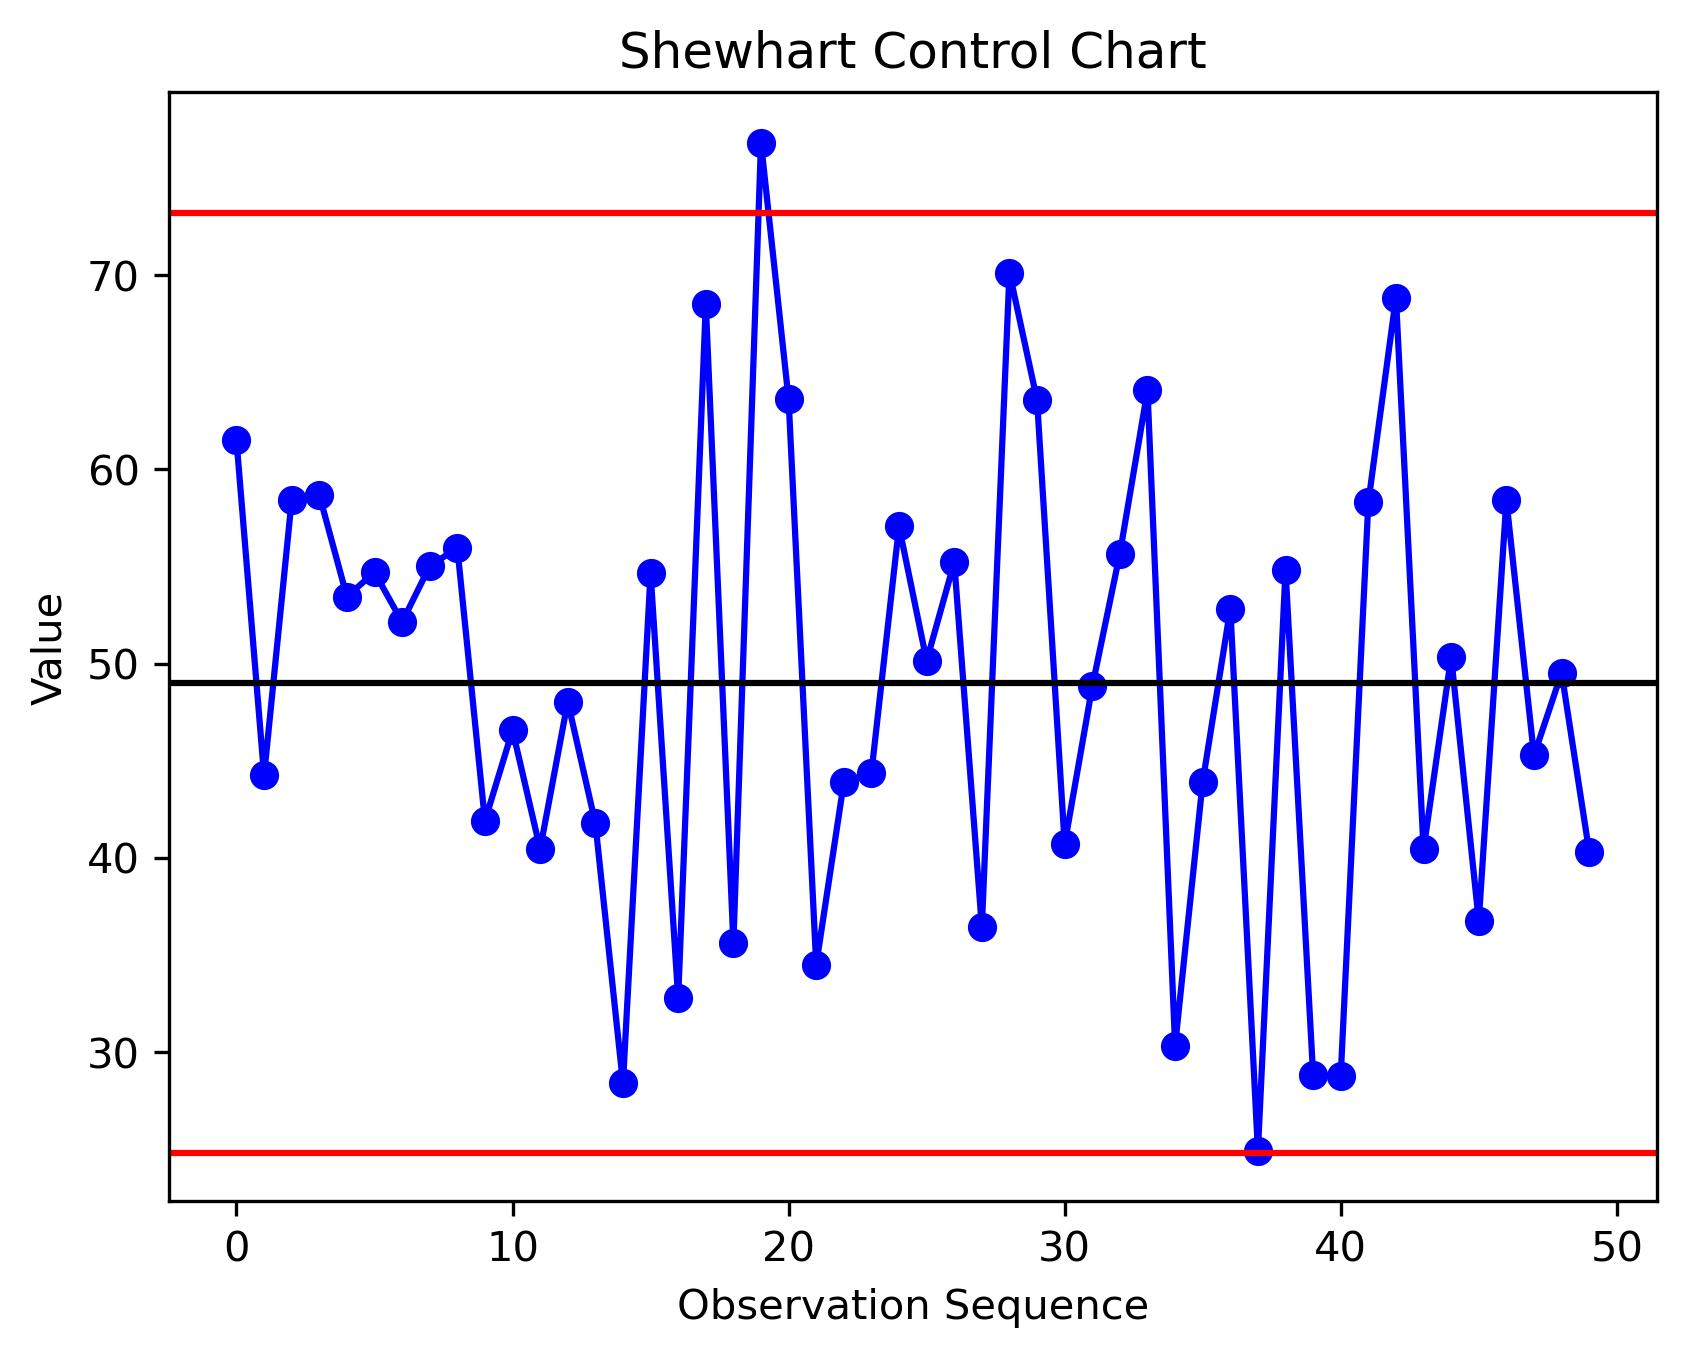
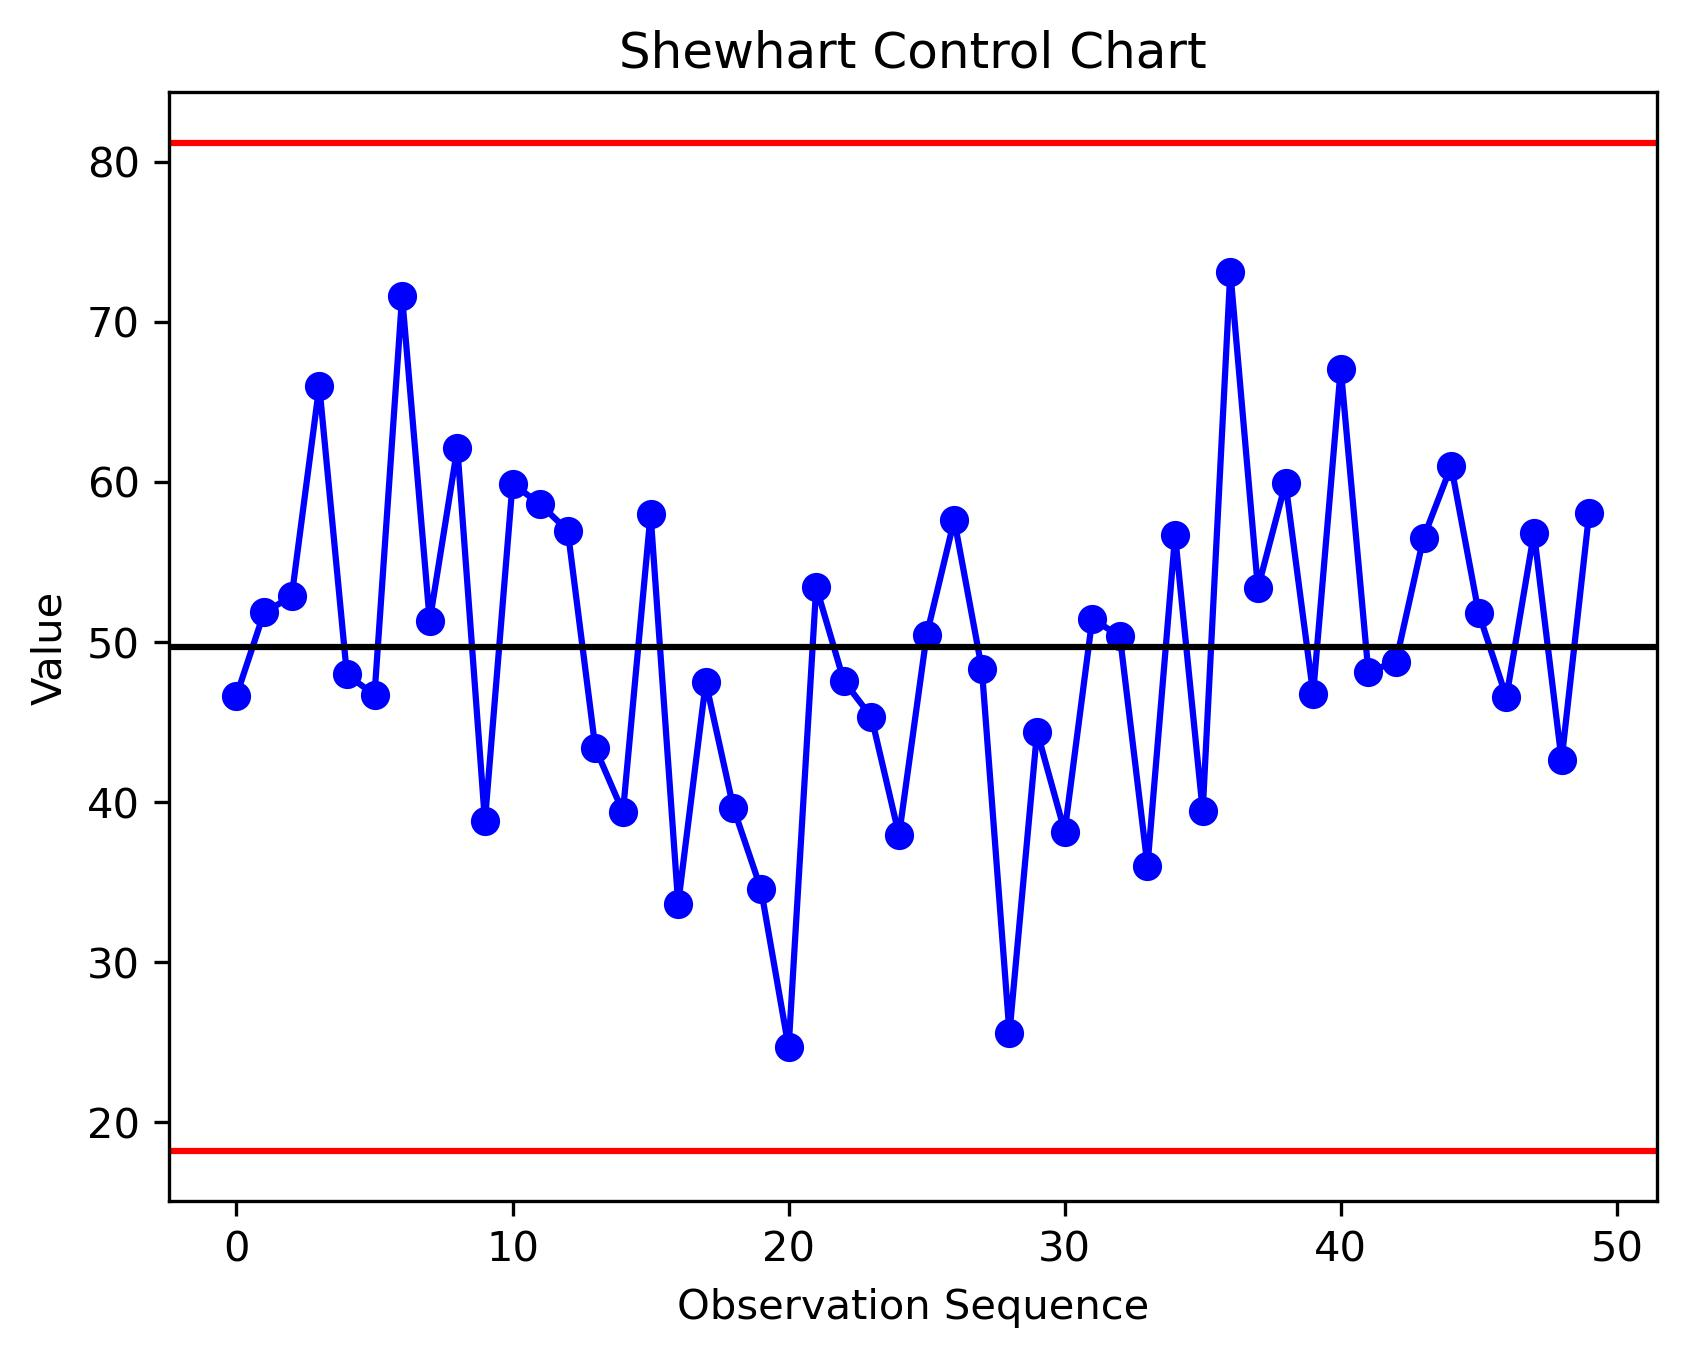
Updated control limits

diff --git a/statistics/control_chart/control_chart_program.py b/statistics/control_chart/control_chart_program.py
@@ -23,8 +23,8 @@ Sigma = statistics.stdev(some_list)
 (Mu, Sigma) = (round(Mu, 2), round(Sigma, 2))
 
 # Now compute the control limits
-ucl = Mu + 2 * Sigma # Upper control limit
-lcl = Mu - 2 * Sigma # Lower control limit
+ucl = Mu + 3 * Sigma # Upper control limit
+lcl = Mu - 3 * Sigma # Lower control limit
 ucl, lcl = round(ucl, 2), round(lcl, 2)
 
 # Log the results
